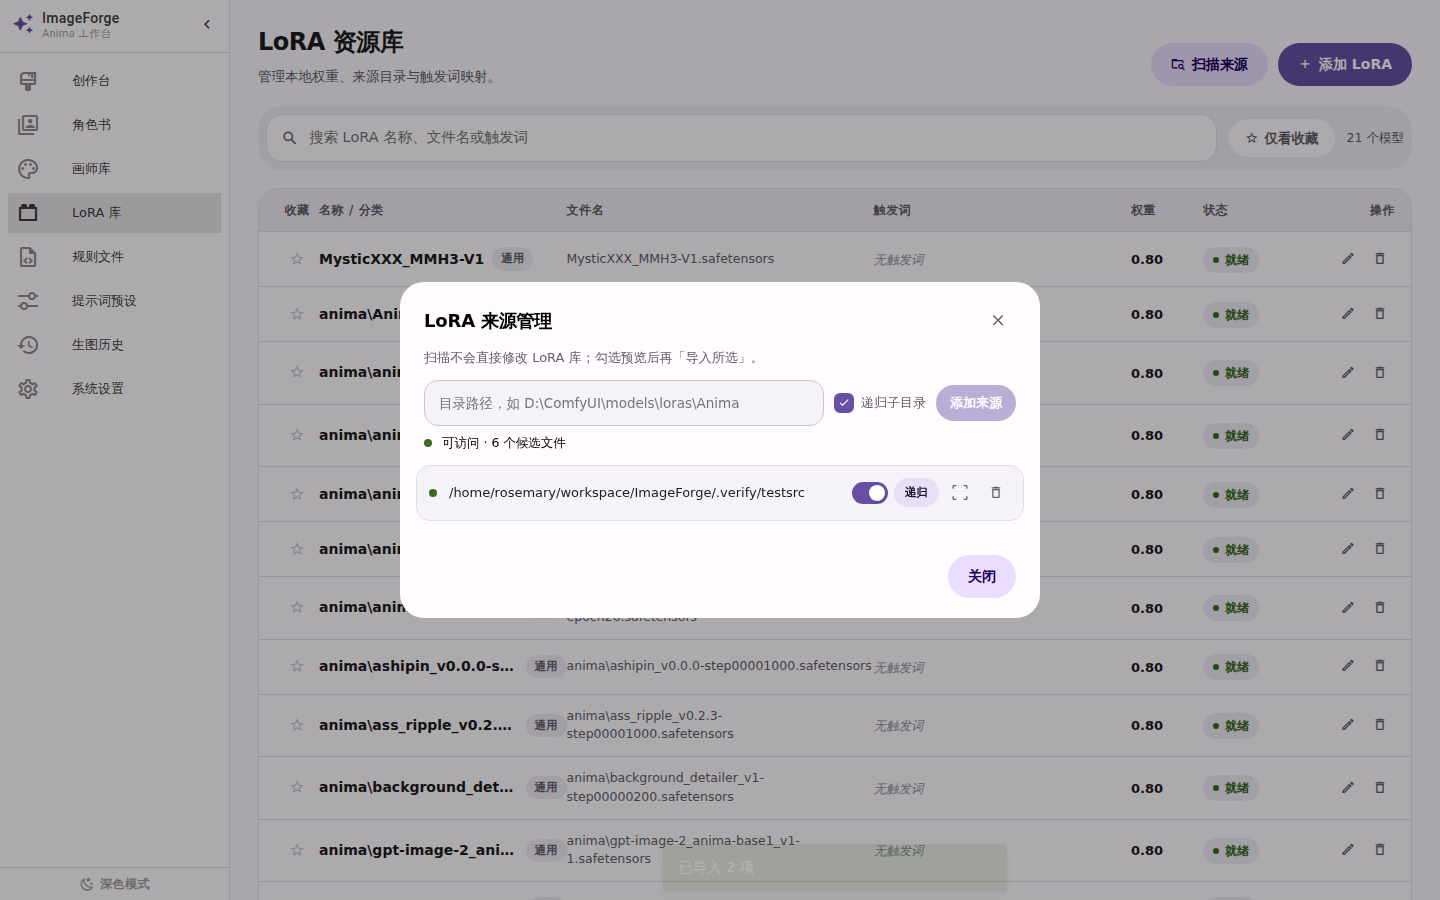
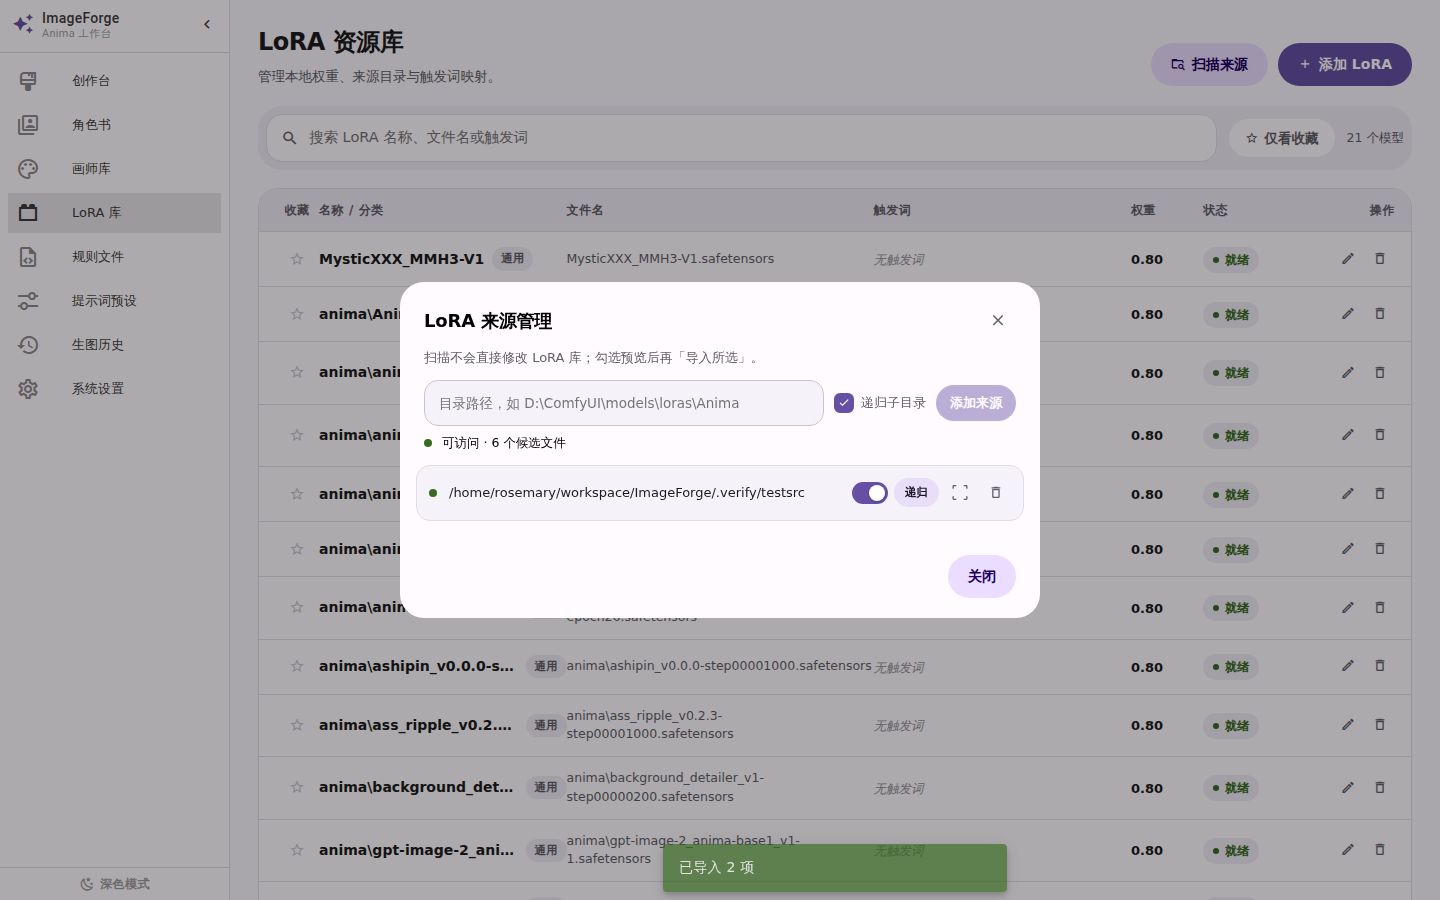
fix(correctness): closure — authoritative sync-comfyui matching, cwd-independent DATABASE_URL/GENERATED_DIR, typed settings coercion
1. sync-comfyui reuses scan/import authoritative logic (_fetch_comfy_loras + _match_comfy + _apply_sync_validity): explicit health check; ComfyUI offline never marks the whole library invalid (validity_updated=0 + comfy_available:false); exact/relative match first; basename fallback only when unique and no same-basename sibling; two same-basename records never both valid

2. DATABASE_URL/GENERATED_DIR cwd-independent: PROJECT_ROOT derived from config.py __file__; DATABASE_URL_ABS anchors relative sqlite paths to project root; engine + migration use it; GENERATED_DIR derives from it; subprocess test proves cwd=root and cwd=backend yield identical DB URL and generated dir

3. Settings GET/POST share typed _coerce: GENERATE_TIMEOUT_SECONDS '300' -> int 300 at runtime and GET; numeric-form API key/model stays string

Tests: backend_test 56/56; verify2/verify3 UI regression ALL PASS; no frontend source changes

Changed region(s): [[0.4375, 0.9333, 0.7188, 0.9956]]

diff --git a/.verify/backend_test.py b/.verify/backend_test.py
@@ -205,17 +205,70 @@ def main():
     api("DELETE", f"/api/loras/sources/{src_id}")
     check("library records kept after source delete", len(api("GET", "/api/loras")[1]) == cnt)
 
-    # ── 10. sync-comfyui 仅校验不导入 ──
+    # ── 10. sync-comfyui 仅校验不导入（+ 权威匹配，closure #1） ──
     cnt = len(api("GET", "/api/loras")[1])
     st, body9 = api("POST", "/api/loras/sync-comfyui")
     check("sync-comfyui ok", st == 200, str(body9)[:160])
     check("sync-comfyui no new records", len(api("GET", "/api/loras")[1]) == cnt)
+    check("sync-comfyui returns comfy_available", isinstance(body9.get("comfy_available"), bool), str(body9)[:120])
 
-    # ── 11. settings 类型解析（审计 P2：数字字符串不无差别转 int） ──
+    from app.api.loras import _apply_sync_validity
+    from app.models.lora import Lora as LoraModel
+    def mk_rec(fn):
+        return LoraModel(name=fn, filename=fn, is_valid_file=True)
+    # 离线：0 变更，不碰现有 is_valid_file
+    recs = [mk_rec("dir1/foo.safetensors"), mk_rec("dir2/foo.safetensors")]
+    before_off = [r.is_valid_file for r in recs]
+    ch_off = _apply_sync_validity(recs, False, [])
+    check("sync 离线不改 is_valid_file", ch_off == 0 and before_off == [r.is_valid_file for r in recs])
+    # exact 优先；同 basename 不同文件不同时 valid（comfy 只有 dir1/foo 时，dir2/foo 不得经 fallback 变 valid）
+    recs2 = [mk_rec("dir1/foo.safetensors"), mk_rec("dir2/foo.safetensors"), mk_rec("exact_hit.safetensors")]
+    _apply_sync_validity(recs2, True, ["dir1/foo.safetensors", "exact_hit.safetensors", "relative/sub.safetensors"])
+    v2 = [r.is_valid_file for r in recs2]
+    check("sync exact/relative 匹配优先", v2[0] is True and v2[2] is True, str(v2))
+    check("sync 同 basename 不同文件不同时 valid", v2[1] is False, str(v2))
+    # relative 匹配
+    recs3 = [mk_rec("relative/sub.safetensors")]
+    _apply_sync_validity(recs3, True, ["relative/sub.safetensors"])
+    check("sync relative 匹配", recs3[0].is_valid_file is True)
+    # 唯一 basename fallback（无同 basename 记录时允许）
+    recs4 = [mk_rec("solo_style.safetensors")]
+    _apply_sync_validity(recs4, True, ["SomeDir/solo_style.safetensors"])
+    check("sync 唯一 basename fallback valid", recs4[0].is_valid_file is True)
+
+    # ── 11. cwd 无关的 DATABASE_URL / GENERATED_DIR（closure #2） ──
+    import subprocess
+    import sys as _sys
+    back_dir = os.path.abspath(os.path.join(os.path.dirname(__file__), "..", "backend"))
+    probe_code = "from app.config import settings; print(settings.DATABASE_URL_ABS); print(settings.GENERATED_DIR)"
+    def probe(cwd):
+        env = {**os.environ, "PYTHONPATH": back_dir}
+        out = subprocess.check_output([_sys.executable, "-c", probe_code], cwd=cwd, env=env, text=True)
+        return out.strip().split("\n")
+    proj_root = os.path.abspath(os.path.join(back_dir, ".."))
+    p_root = probe(proj_root)
+    p_backend = probe(back_dir)
+    check("cwd=root 与 cwd=backend 的 DB URL 一致", p_root[0] == p_backend[0], f"{p_root[0]} vs {p_backend[0]}")
+    check("cwd 无关的 GENERATED_DIR", p_root[1] == p_backend[1], p_root[1])
+    check("DB 锚定项目根", p_root[0] == f"sqlite:///{os.path.join(proj_root, 'imageforge.db')}", p_root[0])
+    check("GENERATED_DIR 在项目根下", p_root[1] == os.path.join(proj_root, "data", "generated"), p_root[1])
+
+    # ── 12. settings 类型转换（closure #3） ──
+    from app.api.settings import _coerce as _coerce_fn
+    check("coerce int from string", _coerce_fn("GENERATE_TIMEOUT_SECONDS", "300") == 300 and isinstance(_coerce_fn("GENERATE_TIMEOUT_SECONDS", "300"), int))
+    check("coerce int from int", _coerce_fn("GENERATE_TIMEOUT_SECONDS", 300) == 300)
+    check("coerce API key string 保持 string", _coerce_fn("LM_STUDIO_API_KEY", "123456") == "123456" and isinstance(_coerce_fn("LM_STUDIO_API_KEY", "123456"), str))
+    check("coerce 数字→str 字段转回 string", _coerce_fn("CLOUD_API_KEY", 123456) == "123456")
+    # POST "300"(string) → GET 返回 int
+    api("POST", "/api/settings", {"GENERATE_TIMEOUT_SECONDS": "300"})
     st, stg = api("GET", "/api/settings")
-    if st == 200:
-        check("timeout parsed as int", isinstance(stg.get("GENERATE_TIMEOUT_SECONDS"), int))
-        check("base url stays string", isinstance(stg.get("COMFYUI_BASE_URL"), str))
+    check("POST string→GET int 300", isinstance(stg.get("GENERATE_TIMEOUT_SECONDS"), int) and stg["GENERATE_TIMEOUT_SECONDS"] == 300, str(stg.get("GENERATE_TIMEOUT_SECONDS")))
+    # 数字形式 API key 保持 string
+    api("POST", "/api/settings", {"LM_STUDIO_API_KEY": "123456"})
+    st, stg = api("GET", "/api/settings")
+    check("API key 保持 string", isinstance(stg.get("LM_STUDIO_API_KEY"), str) and stg["LM_STUDIO_API_KEY"] == "123456")
+    # 还原设置
+    api("POST", "/api/settings", {"GENERATE_TIMEOUT_SECONDS": 300, "LM_STUDIO_API_KEY": ""})
 
     clean()
     failed = [r for r in results if not r[1]]

diff --git a/backend/app/api/loras.py b/backend/app/api/loras.py
@@ -76,28 +76,53 @@ def delete_lora(lora_id: int, session: Session = Depends(get_session)):
 
 
 # ────────────────── ComfyUI 同步：只校验，不再自动导入 ──────────────────
-# ComfyUI `/models/loras` / `object_info/LoraLoader` 是「是否被 ComfyUI 识别」的
-# 权威来源，但不再等于「ImageForge 要导入的全部 LoRA」。导入必须走来源扫描两阶段流程。
+# 复用 scan/import 的权威匹配逻辑（_fetch_comfy_loras + _match_comfy）：
+# - 显式 health check；ComfyUI 离线时绝不把整个库标成 invalid；
+# - exact / relative 匹配优先；basename fallback 仅当唯一且无同 basename 冲突；
+# - 两个同 basename 的 LoRA 不会同时 valid。
 
-@router.post("/sync-comfyui")
-async def sync_comfyui_loras(session: Session = Depends(get_session)):
-    client = ComfyUIClient()
-    comfy_loras = await client.get_loras()
-    comfy_norm = {n.replace("\\", "/") for n in comfy_loras}
-    comfy_basenames = {n.split("/")[-1] for n in comfy_norm}
-
-    existing = session.exec(select(Lora)).all()
+def _apply_sync_validity(existing: List[Lora], comfy_available: bool, comfy_loras: List[str]) -> int:
+    """就地更新 is_valid_file，返回变更数。ComfyUI 离线 => 0 变更（不碰现有值）。"""
+    if not comfy_available:
+        return 0
+    comfy_norm = [n.replace("\\", "/") for n in comfy_loras]
+    comfy_basenames = _comfy_basenames(comfy_norm)
+    all_filenames = [(r.filename or "").replace("\\", "/") for r in existing]
+    basename_counts = Counter(f.split("/")[-1] for f in all_filenames)
     changed = 0
     for rec in existing:
         f = (rec.filename or "").replace("\\", "/")
-        valid = f in comfy_norm or f.split("/")[-1] in comfy_basenames
+        if not f:
+            continue
+        basename = f.split("/")[-1]
+        ambiguous = basename_counts[basename] > 1
+        valid = _match_comfy(f, basename, comfy_norm, comfy_basenames, ambiguous=ambiguous) is not None
         if rec.is_valid_file != valid:
             rec.is_valid_file = valid
-            session.add(rec)
             changed += 1
+    return changed
+
+
+@router.post("/sync-comfyui")
+async def sync_comfyui_loras(session: Session = Depends(get_session)):
+    comfy_available, comfy_loras = await _fetch_comfy_loras()
+    existing = session.exec(select(Lora)).all()
+
+    if not comfy_available:
+        return {
+            "status": "ok",
+            "comfy_available": False,
+            "comfy_recognized_total": 0,
+            "library_total": len(existing),
+            "validity_updated": 0,
+            "note": "ComfyUI 离线，未修改 is_valid_file",
+        }
+
+    changed = _apply_sync_validity(existing, True, comfy_loras)
     session.commit()
     return {
         "status": "ok",
+        "comfy_available": True,
         "comfy_recognized_total": len(comfy_loras),
         "library_total": len(existing),
         "validity_updated": changed,

diff --git a/backend/app/api/settings.py b/backend/app/api/settings.py
@@ -7,18 +7,26 @@ from app.config import settings, EDITABLE_SETTING_KEYS
 
 router = APIRouter(prefix="/settings", tags=["settings"])
 
-def _parse_value(key: str, val: str):
-    """按 Setting 的声明类型解析，禁止对任意数字字符串无差别 int 转换
-    （否则 "123456" 形式的 API Key / model 名会被错误变成 int）。"""
+def _coerce(key: str, raw) -> Any:
+    """按 Setting 的声明类型转换（GET 从 DB 读字符串 / POST 收任意 JSON 值共用）。
+
+    - bool：接受 True/1/"true"/"1"/"yes"；
+    - int：GENERATE_TIMEOUT_SECONDS 即使收到字符串 "300" 也转成 int；
+    - str：数字形式的 API Key / model 名保持 string，绝不无差别 int 化。
+    """
     field_type = type(getattr(settings, key, ""))
     if field_type == bool:
-        return str(val).lower() in ("true", "1", "yes")
+        if isinstance(raw, bool):
+            return raw
+        return str(raw).lower() in ("true", "1", "yes")
     if field_type == int:
         try:
-            return int(val)
+            return int(raw)
         except (TypeError, ValueError):
             return getattr(settings, key)
-    return val
+    if field_type == str:
+        return raw if isinstance(raw, str) else str(raw)
+    return raw
 
 @router.get("")
 def get_all_settings(session: Session = Depends(get_session)) -> Dict[str, Any]:
@@ -26,24 +34,21 @@ def get_all_settings(session: Session = Depends(get_session)) -> Dict[str, Any]:
     res = {k: getattr(settings, k) for k in EDITABLE_SETTING_KEYS if hasattr(settings, k)}
     for s in db_settings:
         if s.key in EDITABLE_SETTING_KEYS:
-            res[s.key] = _parse_value(s.key, s.value)
+            res[s.key] = _coerce(s.key, s.value)
     return res
 
 @router.post("")
 def update_settings(payload: Dict[str, Any], session: Session = Depends(get_session)):
     for k, v in payload.items():
         if k in EDITABLE_SETTING_KEYS and hasattr(settings, k):
-            val_str = str(v)
+            coerced = _coerce(k, v)  # 运行时与存储均按声明类型
             setting = session.exec(select(AppSetting).where(AppSetting.key == k)).first()
             if not setting:
-                setting = AppSetting(key=k, value=val_str)
+                setting = AppSetting(key=k, value=str(coerced))
                 session.add(setting)
             else:
-                setting.value = val_str
+                setting.value = str(coerced)
                 session.add(setting)
-            if isinstance(getattr(settings, k), bool):
-                setattr(settings, k, v in [True, "True", "true", 1, "1"])
-            else:
-                setattr(settings, k, v)
+            setattr(settings, k, coerced)
     session.commit()
     return {"status": "ok"}

diff --git a/backend/app/config.py b/backend/app/config.py
@@ -1,12 +1,27 @@
 from pydantic_settings import BaseSettings, SettingsConfigDict
 import os
 
+# ImageForge 项目根目录：backend/app/config.py -> <root>/backend/app -> <root>
+PROJECT_ROOT = os.path.dirname(os.path.dirname(os.path.dirname(os.path.abspath(__file__))))
+
 class Settings(BaseSettings):
     model_config = SettingsConfigDict(env_file=".env", extra="ignore")
 
     APP_NAME: str = "ImageForge"
     DEBUG: bool = True
+    # 相对路径会经 DATABASE_URL_ABS 锚定到 PROJECT_ROOT，与启动 cwd 无关
     DATABASE_URL: str = "sqlite:///./imageforge.db"
+
+    @property
+    def DATABASE_URL_ABS(self) -> str:
+        """数据库绝对 URL：SQLite 相对路径一律解析到项目根目录，
+        repo root 启动或 `cd backend` 启动打开同一个数据库文件。"""
+        if "sqlite" in self.DATABASE_URL:
+            path = self.DATABASE_URL.replace("sqlite:///", "").split("?")[0]
+            if not os.path.isabs(path):
+                path = os.path.join(PROJECT_ROOT, path)
+            return f"sqlite:///{os.path.abspath(path)}"
+        return self.DATABASE_URL
     
     # Active Provider: "lm_studio" or "cloud"
     ACTIVE_PROVIDER: str = "lm_studio"
@@ -37,8 +52,8 @@ class Settings(BaseSettings):
     def GENERATED_DIR(self) -> str:
         """ImageForge 自己的生成图目录——锚定在数据库文件所在目录下，
         与启动 cwd 无关（repo root 启动或 cd backend 启动都指向同一目录）。"""
-        db_path = self.DATABASE_URL.replace("sqlite:///", "").split("?")[0]
-        base = os.path.dirname(os.path.abspath(db_path)) or os.getcwd()
+        db_path = self.DATABASE_URL_ABS.replace("sqlite:///", "").split("?")[0]
+        base = os.path.dirname(os.path.abspath(db_path)) or PROJECT_ROOT
         return os.path.join(base, self.DATA_DIR, "generated")
     
     # Defaults

diff --git a/backend/app/database.py b/backend/app/database.py
@@ -16,8 +16,8 @@ from app.models.history import GenerationHistory
 
 logger = logging.getLogger(__name__)
 
-connect_args = {"check_same_thread": False} if "sqlite" in settings.DATABASE_URL else {}
-engine = create_engine(settings.DATABASE_URL, echo=False, connect_args=connect_args)
+connect_args = {"check_same_thread": False} if "sqlite" in settings.DATABASE_URL_ABS else {}
+engine = create_engine(settings.DATABASE_URL_ABS, echo=False, connect_args=connect_args)
 
 
 def ensure_data_dirs() -> None:
@@ -39,7 +39,7 @@ def _migrate_legacy_sqlite(database_url: str | None = None) -> None:
       (POST /api/loras 500). Rebuild the table with a nullable column.
     - `loras.source_path` column added for source-scan imports.
     """
-    url = database_url or settings.DATABASE_URL
+    url = database_url or settings.DATABASE_URL_ABS
     if "sqlite" not in url:
         return
     path = url.replace("sqlite:///", "").split("?")[0]
